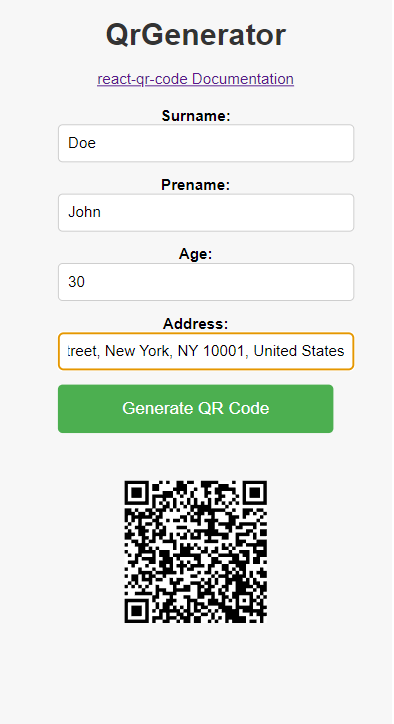
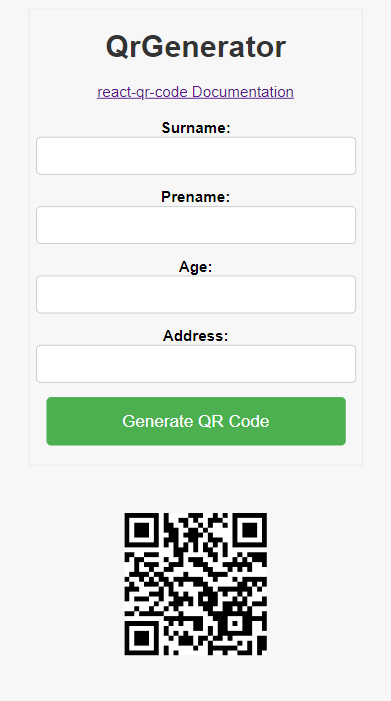
add some styles

diff --git a/src/components/QrGenerator/QrGenerator.jsx b/src/components/QrGenerator/QrGenerator.jsx
@@ -23,35 +23,37 @@ export default function QrGenerator() {
 
     return (
         <div>
-            <h1>QrGenerator</h1>
-            <a href="https://www.npmjs.com/package/react-qr-code" target="_blank" rel="noopener noreferrer">
-                react-qr-code Documentation
-            </a>
-            <form style={{ marginTop: "20px" }} onSubmit={handleSubmit}>
-                <label>
-                    Surname:
-                    <input type="text" name="surname" value={qrData.surname} onChange={handleInputChange} />
-                </label>
-                <label>
-                    Prename:
-                    <input type="text" name="prename" value={qrData.prename} onChange={handleInputChange} />
-                </label>
-                <label>
-                    Age:
-                    <input type="text" name="age" value={qrData.age} onChange={handleInputChange} />
-                </label>
-                <label>
-                    Address:
-                    <input type="text" name="address" value={qrData.address} onChange={handleInputChange} />
-                </label>
-                <button type="submit">Generate QR Code</button>
-            </form>
+            <div className='form-container'>
+                <h1>QrGenerator</h1>
+                <a href="https://www.npmjs.com/package/react-qr-code" target="_blank" rel="noopener noreferrer">
+                    react-qr-code Documentation
+                </a>
+                <form style={{ marginTop: '20px' }} onSubmit={handleSubmit}>
+                    <label>
+                        Surname:
+                        <input type="text" name="surname" value={qrData.surname} onChange={handleInputChange} />
+                    </label>
+                    <label>
+                        Prename:
+                        <input type="text" name="prename" value={qrData.prename} onChange={handleInputChange} />
+                    </label>
+                    <label>
+                        Age:
+                        <input type="text" name="age" value={qrData.age} onChange={handleInputChange} />
+                    </label>
+                    <label>
+                        Address:
+                        <input type="text" name="address" value={qrData.address} onChange={handleInputChange} />
+                    </label>
+                    <button className='qr-button' type="submit">Generate QR Code</button>
+                </form>
+            </div>
             {isGenerated && (
                 <div className='app-container' style={{ height: 'auto', margin: '20px auto', maxWidth: 150, width: '100%' }}>
                     <QRCode
                         value={JSON.stringify(qrData)} // Use qrData as the QR code value after converting it to a JSON string
                         style={{ height: 'auto', maxWidth: '100%', width: '100%' }}
-                        viewBox={`0 0 556 256`}
+                        viewBox={'0 0 556 256'}
                     />
                 </div>
             )}

diff --git a/.eslintrc.js b/.eslintrc.js
@@ -1,0 +1,45 @@
+module.exports = {
+    env: {
+      browser: true,
+      es2021: true,
+      node: true,
+    },
+    extends: ['eslint:recommended', 'plugin:react/recommended'],
+    parserOptions: {
+      ecmaVersion: 2021,
+      sourceType: 'module',
+      ecmaFeatures: {
+        jsx: true,
+      },
+    },
+    plugins: ['react'],
+    rules: {
+      // General ESLint Rules
+      // 'indent': ['error', 2],
+      // 'linebreak-style': ['error', 'unix'],
+      'linebreak-style': 'off',
+      'quotes': ['error', 'single'],
+      'semi': ['error', 'always'],
+      'comma-dangle': ['error', 'always-multiline'],
+      'indent': 'off',
+      
+      // React Rules
+      'react/jsx-uses-react': 'error',
+      'react/jsx-uses-vars': 'error',
+      
+      // Additional Common Rules (Add more rules as needed)
+      'no-unused-vars': 'error',
+      'no-console': 'warn',
+      'no-const-assign': 'error',
+      'no-dupe-class-members': 'error',
+      'no-duplicate-imports': 'error',
+      'no-empty': 'error',
+      'no-extra-semi': 'error',
+      'no-multiple-empty-lines': ['error', { 'max': 1, 'maxEOF': 0 }],
+      'no-redeclare': 'error',
+      'no-this-before-super': 'error',
+      'no-undef': 'error',
+      'no-unreachable': 'error',
+      'no-use-before-define': ['error', { 'functions': false, 'classes': true, 'variables': true }],
+    },
+  };

diff --git a/src/App.js b/src/App.js
@@ -1,19 +1,12 @@
-// import logo from './logo.svg';
+import React from 'react';
 import './App.css';
-// import QRCode from "react-qr-code";
 import QrGenerator from './components/QrGenerator/QrGenerator';
 
-
 export default function App() {
-  // const { data, error } = useSWR("/api/user", fetch);
-
-  // if (error) return <div>failed to load</div>;
-  // if (!data) return <div>loading...</div>;
 
   return (
     <div className="App">
-      <QrGenerator/>
+      <QrGenerator />
     </div>
   );
 }
-

diff --git a/src/components/QrGenerator/QrGenerator.css b/src/components/QrGenerator/QrGenerator.css
@@ -36,7 +36,7 @@ label {
 }
 
 input {
-    width: 100%;
+    width: 90%;
     padding: 10px;
     font-size: 16px;
     border: 1px solid #ccc;
@@ -72,4 +72,10 @@ button:hover {
     height: 200px;
     border: 1px solid #ccc;
     border-radius: 5px;
+}
+
+.form-container{
+    min-width: 350px;
+    border: 1px solid #ede7e7;
+    margin-top: 10px;
 }

diff --git a/src/index.js b/src/index.js
@@ -8,7 +8,7 @@ const root = ReactDOM.createRoot(document.getElementById('root'));
 root.render(
   <React.StrictMode>
     <App />
-  </React.StrictMode>
+  </React.StrictMode>,
 );
 
 // If you want to start measuring performance in your app, pass a function

diff --git a/src/App.css b/src/App.css
@@ -40,3 +40,8 @@
 .app-container{
   margin-top: 50px !important;
 }
+
+.qr-button{
+  width: 90%;
+  margin: auto;
+}
